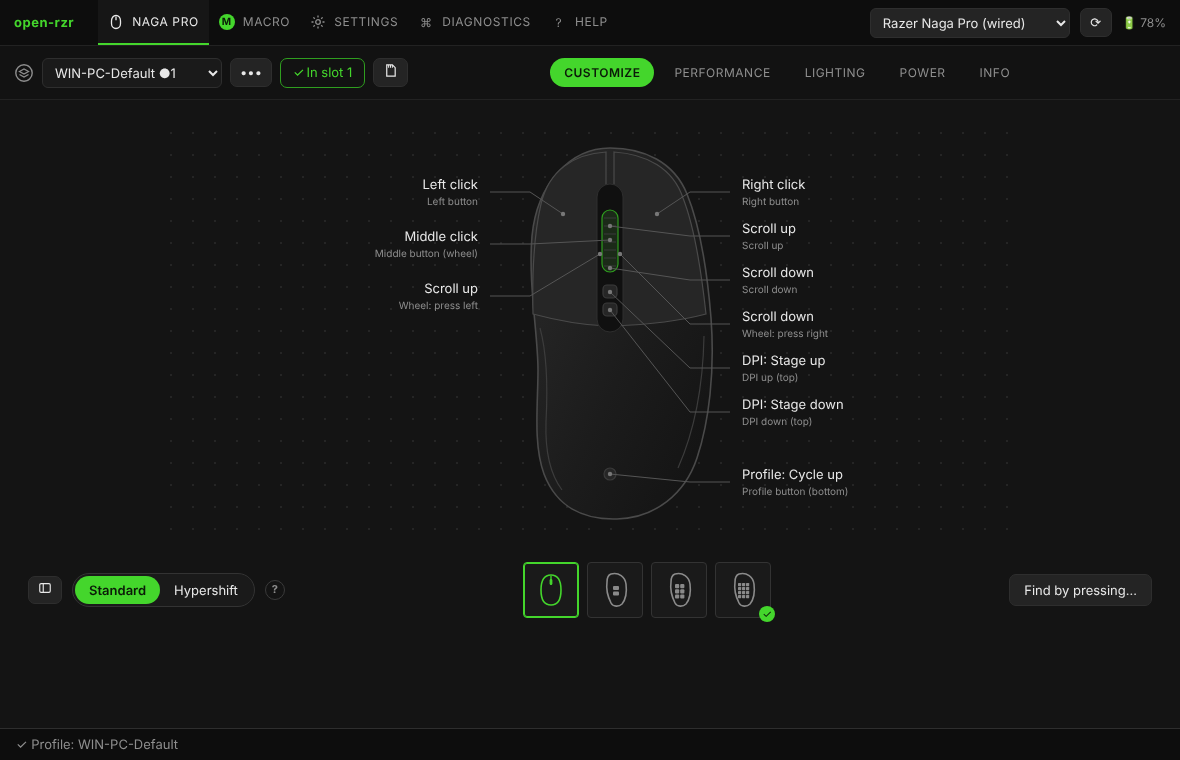
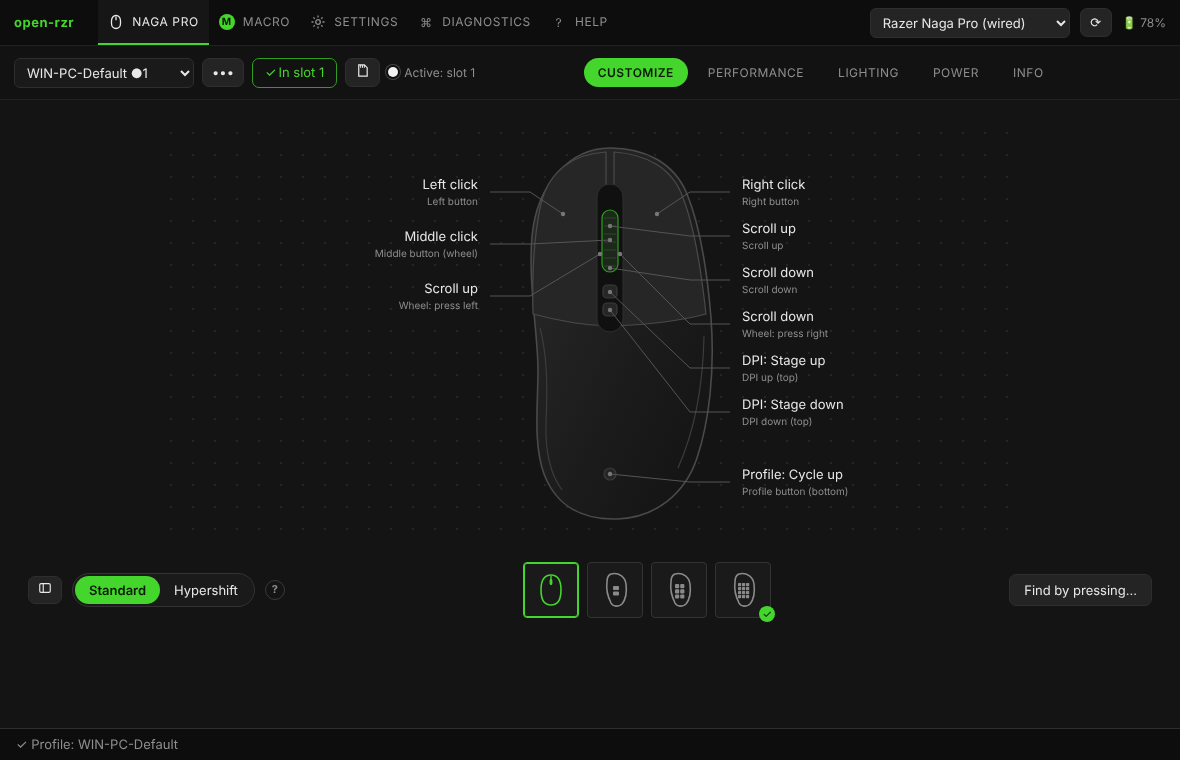
Release 0.8.1.5: release workflow, English release notes, docs

Changed region(s): [[0.4576, 0.0605, 0.8847, 0.1211], [0.1831, 0.0605, 0.3966, 0.1211], [0.0, 0.0908, 0.1525, 0.1211]]

diff --git a/packaging/ci/release-notes.py b/packaging/ci/release-notes.py
@@ -1,0 +1,120 @@
+#!/usr/bin/env python3
+"""Release page text for a tag, made from RELEASE_NOTES.en.md and RELEASE_NOTES.md.
+
+    python3 packaging/ci/release-notes.py v0.8.1.5 > body.md
+    python3 packaging/ci/release-notes.py --check v0.8.1.5     # tag = version in Cargo.toml?
+
+Takes every section newer than the previous release: the highest `v*` tag below this one
+(`git tag`, or `--tags v0.6.10,v0.8.1.1` for a test). English first, Russian folded below.
+Exits with an error when the tag does not match the version in Cargo.toml, so that a mistyped
+tag (v1.8.1.1 for 0.8.1.1) never becomes a release that every copy of open-rzr would offer as
+an update.
+"""
+import re
+import subprocess
+import sys
+from pathlib import Path
+
+ROOT = Path(__file__).resolve().parents[2]
+REPO = "https://github.com/aspidovss/open-rzr"
+
+
+def parts(v):
+    """'v0.8.1.5' / '0.8.1+5' / '0.8.1' -> (0, 8, 1, 5)"""
+    p = [int(x) for x in re.split(r"[.+]", v.strip().lstrip("vV")) if x.isdigit()]
+    return tuple((p + [0, 0, 0, 0])[:4])
+
+
+def text(v):
+    """(0, 8, 1, 0) -> '0.8.1', (0, 8, 1, 5) -> '0.8.1.5'"""
+    return ".".join(str(x) for x in (v if v[3] else v[:3]))
+
+
+def cargo_version():
+    m = re.search(r'^version\s*=\s*"([^"]+)"', (ROOT / "Cargo.toml").read_text(encoding="utf-8"), re.M)
+    if not m:
+        sys.exit("release-notes: no version in Cargo.toml")
+    return parts(m.group(1))
+
+
+def sections(path):
+    """[(version, title line, body)] in file order"""
+    if not path.exists():
+        return []
+    s = path.read_text(encoding="utf-8-sig")
+    out = []
+    for m in re.finditer(r"^## open-rzr (\S+)[^\n]*\n(.*?)(?=^## |\Z)", s, re.M | re.S):
+        out.append((parts(m.group(1)), m.group(1), m.group(2).strip()))
+    return out
+
+
+def demote(body):
+    """### Heading -> #### Heading (the release page has its own ## and ###)"""
+    return re.sub(r"^(#+) ", lambda m: "#" + m.group(1) + " ", body, flags=re.M)
+
+
+def git_tags():
+    try:
+        r = subprocess.run(["git", "tag", "-l", "v*"], cwd=ROOT, capture_output=True, text=True, check=True)
+        return r.stdout.split()
+    except (OSError, subprocess.CalledProcessError):
+        return []
+
+
+def main(argv):
+    check = "--check" in argv
+    tags = None
+    args = []
+    i = 0
+    while i < len(argv):
+        a = argv[i]
+        if a == "--tags":
+            tags = [t for t in argv[i + 1].split(",") if t]
+            i += 2
+            continue
+        if a != "--check":
+            args.append(a)
+        i += 1
+    if len(args) != 1:
+        sys.exit(__doc__)
+    ver = parts(args[0])
+    cargo = cargo_version()
+    if ver != cargo:
+        sys.exit(f"release-notes: tag {args[0]} does not match Cargo.toml version {text(cargo)} — tag v{text(cargo)} instead")
+    if check:
+        print(f"tag {args[0]} = Cargo.toml {text(cargo)}")
+        return
+    older = [parts(t) for t in (tags if tags is not None else git_tags())]
+    older = [t for t in older if t < ver]
+    prev = max(older) if older else (0, 0, 0, 0)
+    take = lambda secs: [s for s in secs if prev < s[0] <= ver]
+    en, ru = take(sections(ROOT / "RELEASE_NOTES.en.md")), take(sections(ROOT / "RELEASE_NOTES.md"))
+    v = text(ver)
+    out = [
+        f"**open-rzr {v}** — Razer mouse configurator for Windows and Linux, no telemetry, no accounts.",
+        "",
+        "| | |",
+        "|---|---|",
+        f"| Windows | `open-rzr-{v}-windows-x64-setup.exe` (installer) or `open-rzr-{v}-windows-x64-portable.zip` |",
+        f"| Linux | `.deb`, `.AppImage` or `.tar.gz` (install the udev rule from the program or with `open-rzr-cli install-udev`) |",
+        "| Checksums | `SHA256SUMS.txt` |",
+        "",
+        f"Guide: [English]({REPO}/blob/v{v}/ui/docs/en/getting-started.md) · [Русский]({REPO}/blob/v{v}/ui/docs/ru/getting-started.md)",
+        "",
+    ]
+    if prev != (0, 0, 0, 0):
+        out += [f"Changes since {text(prev)}:", ""]
+    for _, title, body in en:
+        out += [f"## {title}", "", demote(body), ""]
+    if ru:
+        out += ["<details>", "<summary>Русский: что нового</summary>", ""]
+        for _, title, body in ru:
+            out += [f"## {title}", "", demote(body), ""]
+        out += ["</details>", ""]
+    if not en and not ru:
+        out += [f"See [RELEASE_NOTES.md]({REPO}/blob/v{v}/RELEASE_NOTES.md).", ""]
+    sys.stdout.write("\n".join(out))
+
+
+if __name__ == "__main__":
+    main(sys.argv[1:])

diff --git a/RELEASE_NOTES.en.md b/RELEASE_NOTES.en.md
@@ -1,0 +1,67 @@
+## open-rzr 0.8.1.5
+
+### Bluetooth: settings can be written
+- **Button bindings are changed over Bluetooth** (Naga Pro, Windows): both layers, in the slots the mouse has (`08 04 <slot> <button>`, data `<slot> <button> <layer> <action>`). Profiles, the button editor, “In slot…”, “Write to mouse” and program buttons work as on the cable.
+- There is no temporary layer over Bluetooth (profile `00` mirrors the active one and is read only): changes to a profile go into its slot at once, and a profile that is not in a slot cannot be used over Bluetooth — the program says so.
+- **The sleep timer** is changed over Bluetooth (Power). Low-battery level, DPI and lighting are read only so far; writing a profile over Bluetooth skips DPI stages and lighting (noted in the log).
+- The mouse's slots are read over Bluetooth (`03 80`); they cannot be created or deleted there, so those buttons are hidden.
+- All bindings are read in one request (`08 83 <slot> 00`) instead of 127, checked against a single read of the last button.
+
+### Write self-test, version 3 (5 stages)
+- **Stage 4 — Hypershift layer**: the digit 7 is written to the Hypershift layer (layer byte `01`), read back to check that only that layer changed, and put back.
+- **Stage 5 — does it stay in the mouse** (if you agree): the digit 7 is written, you switch the mouse off and on, the program waits for it to reconnect (up to ~40 s), reads the button and asks you to press it, then puts the binding back.
+
+### Linux
+- **Program buttons send keys, mouse buttons and media keys** through a virtual input device (`/dev/uinput`), held as long as the mouse button, as on Windows.
+- The udev rule now also opens `/dev/uinput` and the mouse's keys over Bluetooth. If the rule of an older version is installed, the program offers to update it once. Settings has a new card, “Linux access (udev rule)”, with its state and an Install / Update button.
+
+### Not tested on the mouse yet
+- Writing over Bluetooth from the program (not the self-test), the Hypershift layer and keeping bindings after switching off — check with self-test version 3.
+- Linux: `/dev/uinput` and the new udev rule are covered by tests only.
+
+## open-rzr 0.8.1.4
+
+### Bluetooth
+- **Writing a button over Bluetooth works** (self-test of 0.8.1.3 on a Naga Pro): `08 04 <profile> <button>` with the data `<profile> <button> 00 <action>` into the active profile 1 changes the binding at once, reads back changed and is put back the same way. The profile list over Bluetooth is `03 80` (`01 02`), the active one `03 82` (`01`), numbered as over USB.
+- The self-test now sets the digit 7 instead of the letter F: a digit does not depend on the keyboard layout.
+
+## open-rzr 0.8.1.3
+
+### Fixed
+- **The side view shows the side plate again**: in 0.8.1.2 choosing a plate (2, 6 or 12 buttons) drew the top view.
+
+### Bluetooth
+- **Write self-test, version 2** (Diagnostics → Wireless). The earlier variants wrote the button into profile 0, the read-only mirror of the active profile. Now it works the way Synapse writes Basilisk mice over Bluetooth (as described by the OpenSnek project): stage 2 reads the profile list (`03 80`), the active profile (`03 82`) and side button 12 in profiles 0–5; stage 3 writes it (`08 04 <profile> <button>`, data `<profile> <button> <layer> <action, 7 bytes>`) into the active stored profile, the live profile 1 and both, asks you to press the button after each and puts it back.
+
+## open-rzr 0.8.1.2
+
+### New
+- **Creating slots in the mouse's memory**: in “On-board memory”, a slot the mouse does not have gets a Create button, existing slots (except the first) a ✕ to delete them. The result is checked against the mouse's profile list; if the mouse only switched to that slot instead, the program switches it back and says the slot could not be created. The software profile window offers “Create slot 5” when it is missing.
+- **All buttons beside the picture (as in Synapse)**: Settings → Window style → “Customize: the list button opens all buttons beside the picture (like Synapse)”. The ▢ button under the mouse opens a list of all buttons with their bindings and a filter (all / top / side plate); a click opens the binding. Off by default — the button works as before.
+- Removed the layers icon left of the profile list and the ▶ mark in the “In slot …” button (the active slot is still shown next to it).
+
+## open-rzr 0.8.1.1
+
+### New
+- **Versions of four numbers**: major . new features . fixes . optional (intermediate updates, support of particular devices). The program, log, CLI, installer and file names show `0.8.1.1`; Cargo keeps `0.8.1+1`.
+- **Settings → Updates → “Also tell me about optional updates”** — a separate switch, off by default. Without it the update check tells only about versions where one of the first three numbers changed; a manual check mentions an optional update with a hint.
+
+## open-rzr 0.8.1
+
+### New
+- **Active slot**: next to the On-board memory button the program shows which slot the mouse works by now (switched with the profile button on the mouse); the “In slot …” button and the memory list mark it. Refreshed every 3 seconds.
+- **Software profile in a slot of your choice**: chosen from the slots the mouse has (5 if it has it). Slots the mouse does not have yet are labelled.
+- A failed raw command in Diagnostics no longer logs an “unhandled rejection”.
+
+## open-rzr 0.8.0
+
+### New
+- **Software profile (slot 5)**: profile menu → “Software profile in slot 5…” makes a copy of the current profile and writes it to slot 5 of the mouse; the other slots are not changed. In such a profile a button can be set to “⚡ Run by open-rzr”: an F13–F24 key is written to the mouse once, and the program performs the actions — a key or shortcut, a mouse button, a media key (held with the button), typing text, launching a program or website, a command, pauses. Changing these actions writes nothing to the mouse, and they run over Bluetooth too.
+- **Trigger keys (Windows)**: a low-level keyboard hook instead of system hot keys — both press and release are seen, so an action can be held. Trigger keys of macros work as before.
+
+### Bluetooth (0.6.15–0.7.3)
+- Connecting the mouse over Bluetooth through the Razer GATT service: firmware, serial number, battery, DPI and stages, sleep timer, brightness, button bindings — read only.
+- Diagnostics → Wireless — a separate view: Razer commands over Bluetooth, command scan, raw GATT channel, write self-test.
+
+### Installing and first start (0.6.11–0.6.14)
+- User agreement in the installer and at first start; optional update check on GitHub; uninstaller; “Remove open-rzr from this computer” for the portable version and Linux.

diff --git a/ui/docs/ru/building.md b/ui/docs/ru/building.md
@@ -30,7 +30,15 @@ curl https://sh.rustup.rs -sSf | sh
 
 ## Автоматическая сборка на GitHub
 
-Сценарий лежит в `.github/workflows/build.yml` (копия — `packaging/ci/github-build.yml`). При каждом push GitHub собирает обе системы, прогоняет тесты и clippy и проверяет окно в браузере; тег вида `v0.5.0` создаёт релиз с установщиком, zip, .deb, AppImage и контрольными суммами.
+Сценарий лежит в `.github/workflows/build.yml` (копия — `packaging/ci/github-build.yml`). При каждом push GitHub собирает обе системы, прогоняет тесты и clippy и проверяет окно в браузере.
+
+## Выпуск релиза
+
+1. Укажите версию в `Cargo.toml` и `app/tauri.conf.json`. Версия из четырёх чисел — крупные изменения . новые функции . исправления . необязательные; четвёртое Cargo пишет как метаданные сборки: `0.8.1+5` — это **0.8.1.5**, `0.9.0` — **0.9.0**.
+2. Добавьте раздел `## open-rzr 0.8.1.5` в начало `RELEASE_NOTES.en.md` (по-английски) и `RELEASE_NOTES.md` (по-русски).
+3. Сделайте commit и отправьте тег с номером версии: `git tag v0.8.1.5 && git push origin main v0.8.1.5`.
+
+После этого GitHub собирает всё и публикует релиз **open-rzr 0.8.1.5** с установщиком, zip, .deb, AppImage, tar.gz и контрольными суммами и помечает его последним. Текст релиза собирает `packaging/ci/release-notes.py` из обоих файлов: все разделы после предыдущего тега, сначала английский, ниже свёрнутый русский (`python3 packaging/ci/release-notes.py v0.8.1.5` покажет его у вас). Тег, который не совпадает с `Cargo.toml`, останавливает релиз: проверка обновлений во всех установленных копиях спрашивает у GitHub последний релиз, и ошибочный тег вроде `v1.8.1.1` предлагался бы всем как новая версия.
 
 ## Тесты окна
 

diff --git a/README.ru.md b/README.ru.md
@@ -62,7 +62,7 @@
 
 ## Загрузка и сборка
 
-Готовые версии — на странице [Releases](../../releases) (Windows: zip и установщик; Linux: tar.gz, .deb, AppImage).
+Готовые версии — на странице [Releases](../../releases) (Windows: zip и установщик; Linux: tar.gz, .deb, AppImage). Что изменилось — [RELEASE_NOTES.md](RELEASE_NOTES.md).
 
 ```powershell
 # Windows (Rust + Visual Studio Build Tools)
@@ -85,7 +85,7 @@ powershell -ExecutionPolicy Bypass -File packaging\windows\build.ps1 [-Installer
 
 ### Версии
 
-Четыре числа, например **0.8.1.1**: *крупные изменения* (меняют программу в целом) . *новые функции* . *исправления* . *необязательные* (промежуточные обновления, в основном поддержка отдельных устройств). О необязательных обновлениях проверка сообщает, только если это включено в настройках (по умолчанию выключено). В Cargo четвёртое число хранится как метаданные сборки (`0.8.1+1`); установщик и имена файлов показывают `0.8.1.1`.
+Четыре числа, например **0.8.1.5**: *крупные изменения* (меняют программу в целом) . *новые функции* . *исправления* . *необязательные* (промежуточные обновления, в основном поддержка отдельных устройств). О необязательных обновлениях проверка сообщает, только если это включено в настройках (по умолчанию выключено). В Cargo четвёртое число хранится как метаданные сборки (`0.8.1+5`); установщик, имена файлов и тег релиза (`v0.8.1.5`) показывают `0.8.1.5`. Как выпускается релиз — [Сборка и участие](ui/docs/ru/building.md#выпуск-релиза).
 
 ## Структура проекта
 

diff --git a/ui/docs/ru/linux.md b/ui/docs/ru/linux.md
@@ -5,9 +5,10 @@
 Без правила к мыши может обращаться только root. При первом запуске open-rzr предложит установить `/etc/udev/rules.d/99-open-rzr.rules` (один раз спросит пароль); то же делает `open-rzr-cli install-udev`, а пакет `.deb` ставит правило сам. Правило даёт пользователю сеанса доступ к:
 
 - интерфейсу управления (`hidraw`) известных open-rzr мышей Razer — по кабелю, через приёмник и по Bluetooth;
-- собственным событиям клавиш мыши (`/dev/input/event*`) — для клавиш-триггеров F13–F24 действий программы в макросах.
+- собственным событиям клавиш мыши (`/dev/input/event*`, и по Bluetooth) — для клавиш-триггеров F13–F24 действий программы в макросах и программных кнопок;
+- `/dev/uinput` — виртуальному устройству ввода, через которое программные кнопки отправляют клавиши, кнопки мыши и медиаклавиши (удерживаются, пока нажата кнопка мыши).
 
-После установки правила переподключите мышь.
+После установки правила переподключите мышь; для `/dev/uinput` выйдите из системы и войдите снова. **Настройки → Доступ в Linux (правило udev)** показывают, установлено ли правило и актуально ли оно, и устанавливают или обновляют его. Если установлено правило от старой версии, open-rzr после подключения мыши один раз предложит его обновить.
 
 ## OpenRazer
 

diff --git a/ui/docs/en/building.md b/ui/docs/en/building.md
@@ -30,7 +30,15 @@ Both scripts run the core tests, build `open-rzr`, `open-rzr-cli` and `orzr-cli`
 
 ## Automatic builds on GitHub
 
-The workflow is in `.github/workflows/build.yml` (a copy is kept in `packaging/ci/github-build.yml`). On every push GitHub builds both systems, runs the tests and clippy, and tests the window in a browser; a tag like `v0.5.0` creates a release with the installer, zip, .deb, AppImage and checksums.
+The workflow is in `.github/workflows/build.yml` (a copy is kept in `packaging/ci/github-build.yml`). On every push GitHub builds both systems, runs the tests and clippy, and tests the window in a browser.
+
+## Releasing
+
+1. Set the version in `Cargo.toml` and `app/tauri.conf.json`. Versions have four numbers — major . new features . fixes . optional; Cargo writes the fourth as build metadata: `0.8.1+5` is **0.8.1.5**, `0.9.0` is **0.9.0**.
+2. Add a section `## open-rzr 0.8.1.5` at the top of `RELEASE_NOTES.en.md` (English) and `RELEASE_NOTES.md` (Russian).
+3. Commit, then push a tag named after the version: `git tag v0.8.1.5 && git push origin main v0.8.1.5`.
+
+GitHub then builds everything and publishes the release **open-rzr 0.8.1.5** with the installer, zip, .deb, AppImage, tar.gz and checksums, marked as the latest one. Its text is made by `packaging/ci/release-notes.py` from both notes files: every section since the previous tag, English first, Russian folded below (`python3 packaging/ci/release-notes.py v0.8.1.5` shows it locally). A tag that does not match `Cargo.toml` stops the release: the update check of every installed copy asks GitHub for the latest release, so a mistyped tag such as `v1.8.1.1` would be offered to everyone as a new version.
 
 ## Window tests
 

diff --git a/README.md b/README.md
@@ -62,7 +62,7 @@ Details: [Supported mice and Bluetooth](ui/docs/en/devices.md).
 
 ## Download and build
 
-Releases: the [Releases](../../releases) page (Windows zip and installer, Linux tar.gz, .deb, AppImage).
+Releases: the [Releases](../../releases) page (Windows zip and installer, Linux tar.gz, .deb, AppImage). What changed: [RELEASE_NOTES.en.md](RELEASE_NOTES.en.md).
 
 ```powershell
 # Windows (Rust + Visual Studio Build Tools)
@@ -85,7 +85,7 @@ Settings already written to the mouse stay in the mouse. If you kept the Razer s
 
 ### Versions
 
-Four numbers, for example **0.8.1.1**: *major* (changes the program as a whole) . *new features* . *fixes* . *optional* (intermediate updates, mostly support of particular devices). The update check tells about optional updates only when this is turned on in Settings (off by default). Cargo keeps the fourth number as build metadata (`0.8.1+1`); the installer and the file names show `0.8.1.1`.
+Four numbers, for example **0.8.1.5**: *major* (changes the program as a whole) . *new features* . *fixes* . *optional* (intermediate updates, mostly support of particular devices). The update check tells about optional updates only when this is turned on in Settings (off by default). Cargo keeps the fourth number as build metadata (`0.8.1+5`); the installer, the file names and the release tag (`v0.8.1.5`) show `0.8.1.5`. How a release is made: [Building and contributing](ui/docs/en/building.md#releasing).
 
 ## Project layout
 

diff --git a/ui/docs/ru/troubleshooting.md b/ui/docs/ru/troubleshooting.md
@@ -4,7 +4,7 @@
 
 1. С мышью работает **Razer Synapse или OpenRazer** — смотрите предупреждение сверху и остановите их ([Windows](windows.md), [Linux](linux.md)).
 2. **Linux:** нет правила udev — *Настройки* предложат его установить; после этого переподключите мышь.
-3. **Bluetooth:** по Bluetooth настройка может быть недоступна — подключите кабелем или через приёмник ([подробнее](devices.md)).
+3. **Bluetooth:** по Bluetooth можно менять только назначения кнопок и время до сна (Naga Pro, Windows); для остального подключите мышь кабелем или через приёмник ([подробнее](devices.md#bluetooth)). *Диагностика → Беспроводное → Самопроверка записи* проверяет, что принимает ваша мышь.
 4. **Диагностика → Все HID-устройства** показывает, что видит система. **Диагностика → Драйверы** — драйверы Razer, оставшиеся от Synapse.
 5. Нажмите **⟳** рядом со списком устройств.
 

diff --git a/ui/docs/en/linux.md b/ui/docs/en/linux.md
@@ -5,9 +5,10 @@
 Without a rule, only root can talk to the mouse. On first start open-rzr offers to install `/etc/udev/rules.d/99-open-rzr.rules` (asks for your password once); `open-rzr-cli install-udev` does the same, and the `.deb` installs it itself. The rule gives the logged-in user access to:
 
 - the control interface (`hidraw`) of the Razer mice open-rzr knows, by cable, receiver and Bluetooth;
-- the mouse's own key events (`/dev/input/event*`) — for the F13–F24 triggers of macro program actions.
+- the mouse's own key events (`/dev/input/event*`, also over Bluetooth) — for the F13–F24 triggers of macro program actions and program buttons;
+- `/dev/uinput` — a virtual input device through which program buttons send keys, mouse buttons and media keys (held as long as the mouse button).
 
-Reconnect the mouse after installing the rule.
+Reconnect the mouse after installing the rule; for `/dev/uinput`, log out and in again. **Settings → Linux access (udev rule)** shows whether the rule is installed and up to date and installs or updates it. When the rule of an older version is installed, open-rzr offers to update it once after connecting the mouse.
 
 ## OpenRazer
 

diff --git a/ui/docs/ru/profiles.md b/ui/docs/ru/profiles.md
@@ -28,6 +28,8 @@ Naga Pro хранит **пять профилей** в своей памяти. 
 
 **Настройки → Профили → Сразу записывать изменения в слот профиля** — каждое изменение сразу пишется во флеш-память, без кнопки (как в прежних версиях).
 
+**По Bluetooth** временного слоя нет: изменения всегда сразу записываются в слот профиля, профиль без слота использовать нельзя, а слоты нельзя создавать и удалять. См. [Bluetooth](devices.md#bluetooth).
+
 ## Меню •••
 
 - **Добавить** — с заводскими назначениями, копией текущего профиля или чтением слота мыши.

diff --git a/ui/docs/en/troubleshooting.md b/ui/docs/en/troubleshooting.md
@@ -4,7 +4,7 @@
 
 1. **Razer Synapse or OpenRazer** is talking to the mouse — see the notice at the top; stop it ([Windows](windows.md), [Linux](linux.md)).
 2. **Linux:** the udev rule is missing — *Settings* offers to install it; reconnect the mouse afterwards.
-3. **Bluetooth:** settings may be unavailable over Bluetooth — connect by cable or receiver ([details](devices.md)).
+3. **Bluetooth:** over Bluetooth only button bindings and the sleep timer can be changed (Naga Pro, Windows); for the rest connect by cable or receiver ([details](devices.md#bluetooth)). *Diagnostics → Wireless → Write self-test* checks what your mouse accepts.
 4. **Diagnostics → All HID devices** shows what the system sees. **Diagnostics → Drivers** shows Razer drivers left by Synapse.
 5. Press **⟳** next to the device list.
 

diff --git a/ui/docs/en/profiles.md b/ui/docs/en/profiles.md
@@ -24,6 +24,8 @@ Only the changed bindings are written, which saves flash memory.
 
 **Settings → Profiles → Write changes straight into the profile's on-board slot** — every change goes into flash at once, without the button (the behaviour of older versions).
 
+**Over Bluetooth** there is no temporary layer: changes always go into the profile's slot at once, a profile that is not in a slot cannot be used, and slots cannot be created or deleted. See [Bluetooth](devices.md#bluetooth).
+
 ## The ••• menu
 
 - **Add** — with factory bindings, as a copy of the current profile, or read from a slot of the mouse.
